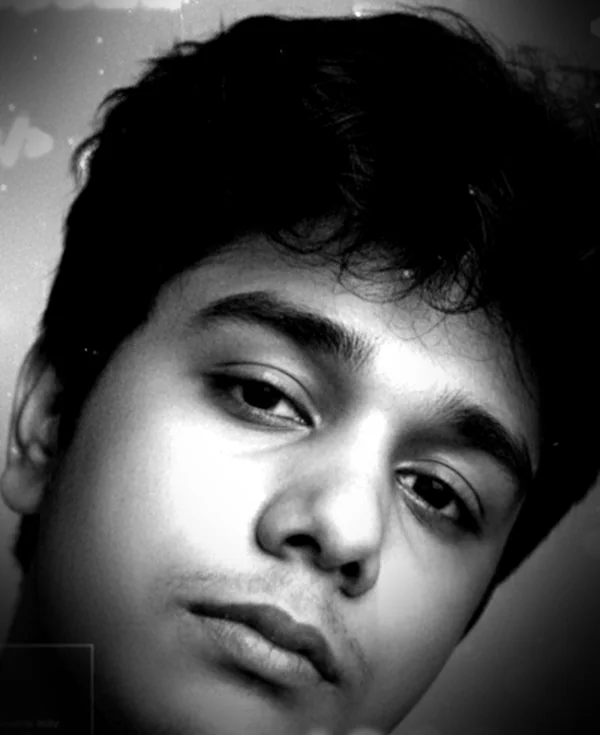
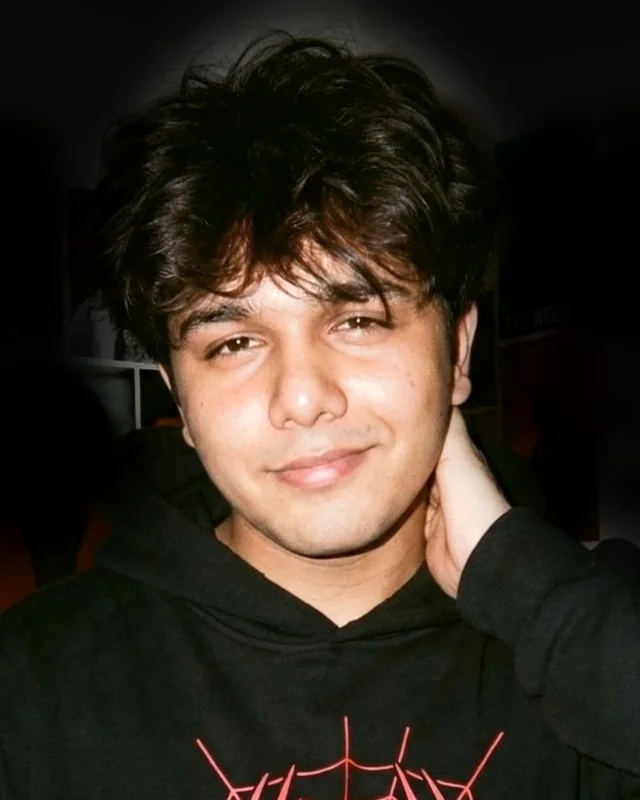
feat(about): new portrait photo; scan shader keeps the print's red as signal
Replaces the AI-edited pfp.png with a real photo (web-sized source kept as
pfp.jpg). The portrait crop fades and blurs the poster wall; the scan shader
now samples colour and renders saturated reds (not skin) in the beam colour,
the scan completes once the photo is fully on screen, and the warm tint near
the line no longer blows out highlights.

Claude-Session: https://claude.ai/code/session_01PGJGrGubJukycxeckV1iK2

diff --git a/src/lib/PortraitScan.js b/src/lib/PortraitScan.js
@@ -2,7 +2,8 @@
  * Portrait "scanned" by the laser. Above the scan line the photo is developed
  * (warm duotone); below it the raw signal shows as a 1-bit ordered dither. The
  * line itself glows and shears the image slightly. A lens under the pointer
- * shows the raw dither. Raw WebGL1, one draw call; renders only when something
+ * shows the raw dither. Saturated reds in the photo (not skin) keep their colour
+ * as the beam's signal colour, in both states. Raw WebGL1, one draw call; renders only when something
  * changes (scan moving, lens active) and only while on screen.
  */
 
@@ -61,19 +62,25 @@ void main() {
   uv.x += (hash(row + floor(uTime * 24.0)) - 0.5) * 0.035 * band;
 
   vec2 tuv = vec2(uv.x, 1.0 - uv.y);
-  float L = texture2D(uTex, tuv).r;
-  L = smoothstep(0.03, 0.97, L);
+  vec3 src = texture2D(uTex, tuv).rgb;
+  float L = smoothstep(0.03, 0.97, dot(src, vec3(0.299, 0.587, 0.114)));
+  // Strong, saturated red (the print on the hoodie) — skin and lips sit above 0.58 here.
+  float mx = max(src.g, src.b);
+  float red = (1.0 - smoothstep(0.42, 0.58, mx / max(src.r, 0.001)))
+            * smoothstep(0.15, 0.3, src.r - mx)
+            * smoothstep(0.25, 0.45, src.r);
   float vig = 1.0 - smoothstep(0.3, 0.95, length((vUv - vec2(0.5, 0.56)) * vec2(1.05, 0.95)) * 1.25);
   L *= mix(0.35, 1.0, vig);
 
   vec2 cell = floor(gl_FragCoord.xy / uCell);
-  float dith = step(bayer4(cell), L * 0.96);
-  vec3 raw = mix(uInk, uBone * 0.9, dith);
+  float dith = step(bayer4(cell), max(L * 0.96, red * 0.7));
+  vec3 raw = mix(uInk, mix(uBone * 0.9, uBeam, red), dith);
 
   float g = hash(dot(gl_FragCoord.xy, vec2(12.9898, 78.233)) + uTime) * 0.05 - 0.025;
   vec3 dev = mix(uInk, uBone, pow(L, 1.15)) + g;
+  dev = mix(dev, uBeam * (0.55 + L * 0.6), red * 0.92);
   // Freshly scanned rows are still warm from the beam.
-  dev = mix(dev, dev * (0.6 + uBeam * 0.9), exp(-max(d, 0.0) * 9.0) * step(0.0, d) * 0.55 * step(uScan, 0.999));
+  dev = mix(dev, dev * (0.72 + uBeam * 0.45), exp(-max(d, 0.0) * 9.0) * step(0.0, d) * 0.45 * step(uScan, 0.999));
 
   vec2 px = vUv * uRes;
   float lens = uLens * (1.0 - smoothstep(uRes.x * 0.12, uRes.x * 0.2, distance(px, uMouse * uRes)));
@@ -147,7 +154,7 @@ export function mountPortraitScan(container, { src, ink = "#0b0a09", bone = "#ec
   img.onload = () => {
     gl.bindTexture(gl.TEXTURE_2D, tex);
     gl.pixelStorei(gl.UNPACK_FLIP_Y_WEBGL, false);
-    gl.texImage2D(gl.TEXTURE_2D, 0, gl.LUMINANCE, gl.LUMINANCE, gl.UNSIGNED_BYTE, img);
+    gl.texImage2D(gl.TEXTURE_2D, 0, gl.RGB, gl.RGB, gl.UNSIGNED_BYTE, img);
     gl.texParameteri(gl.TEXTURE_2D, gl.TEXTURE_MIN_FILTER, gl.LINEAR);
     gl.texParameteri(gl.TEXTURE_2D, gl.TEXTURE_MAG_FILTER, gl.LINEAR);
     gl.texParameteri(gl.TEXTURE_2D, gl.TEXTURE_WRAP_S, gl.CLAMP_TO_EDGE);

diff --git a/src/components/About.jsx b/src/components/About.jsx
@@ -71,8 +71,8 @@ function Portrait() {
           if (!scan || prefersReducedMotion()) return;
           st = ScrollTrigger.create({
             trigger: frameRef.current,
-            start: "top 78%",
-            end: "bottom 55%",
+            start: "top 85%",
+            end: "bottom 80%",
             onUpdate: (self) => scan.setScan(self.progress),
             onRefresh: (self) => scan.setScan(self.progress),
           });
@@ -97,11 +97,11 @@ function Portrait() {
         <img
           src={getAssetPath("/assets/portrait.webp")}
           alt="Santosh Maurya"
-          width={600}
-          height={735}
+          width={640}
+          height={800}
           loading="lazy"
           decoding="async"
-          className="absolute inset-0 h-full w-full object-cover opacity-80"
+          className="absolute inset-0 h-full w-full object-cover grayscale contrast-[1.05] opacity-85"
         />
       </div>
       <figcaption className="mt-4 flex items-baseline justify-between gap-4">
